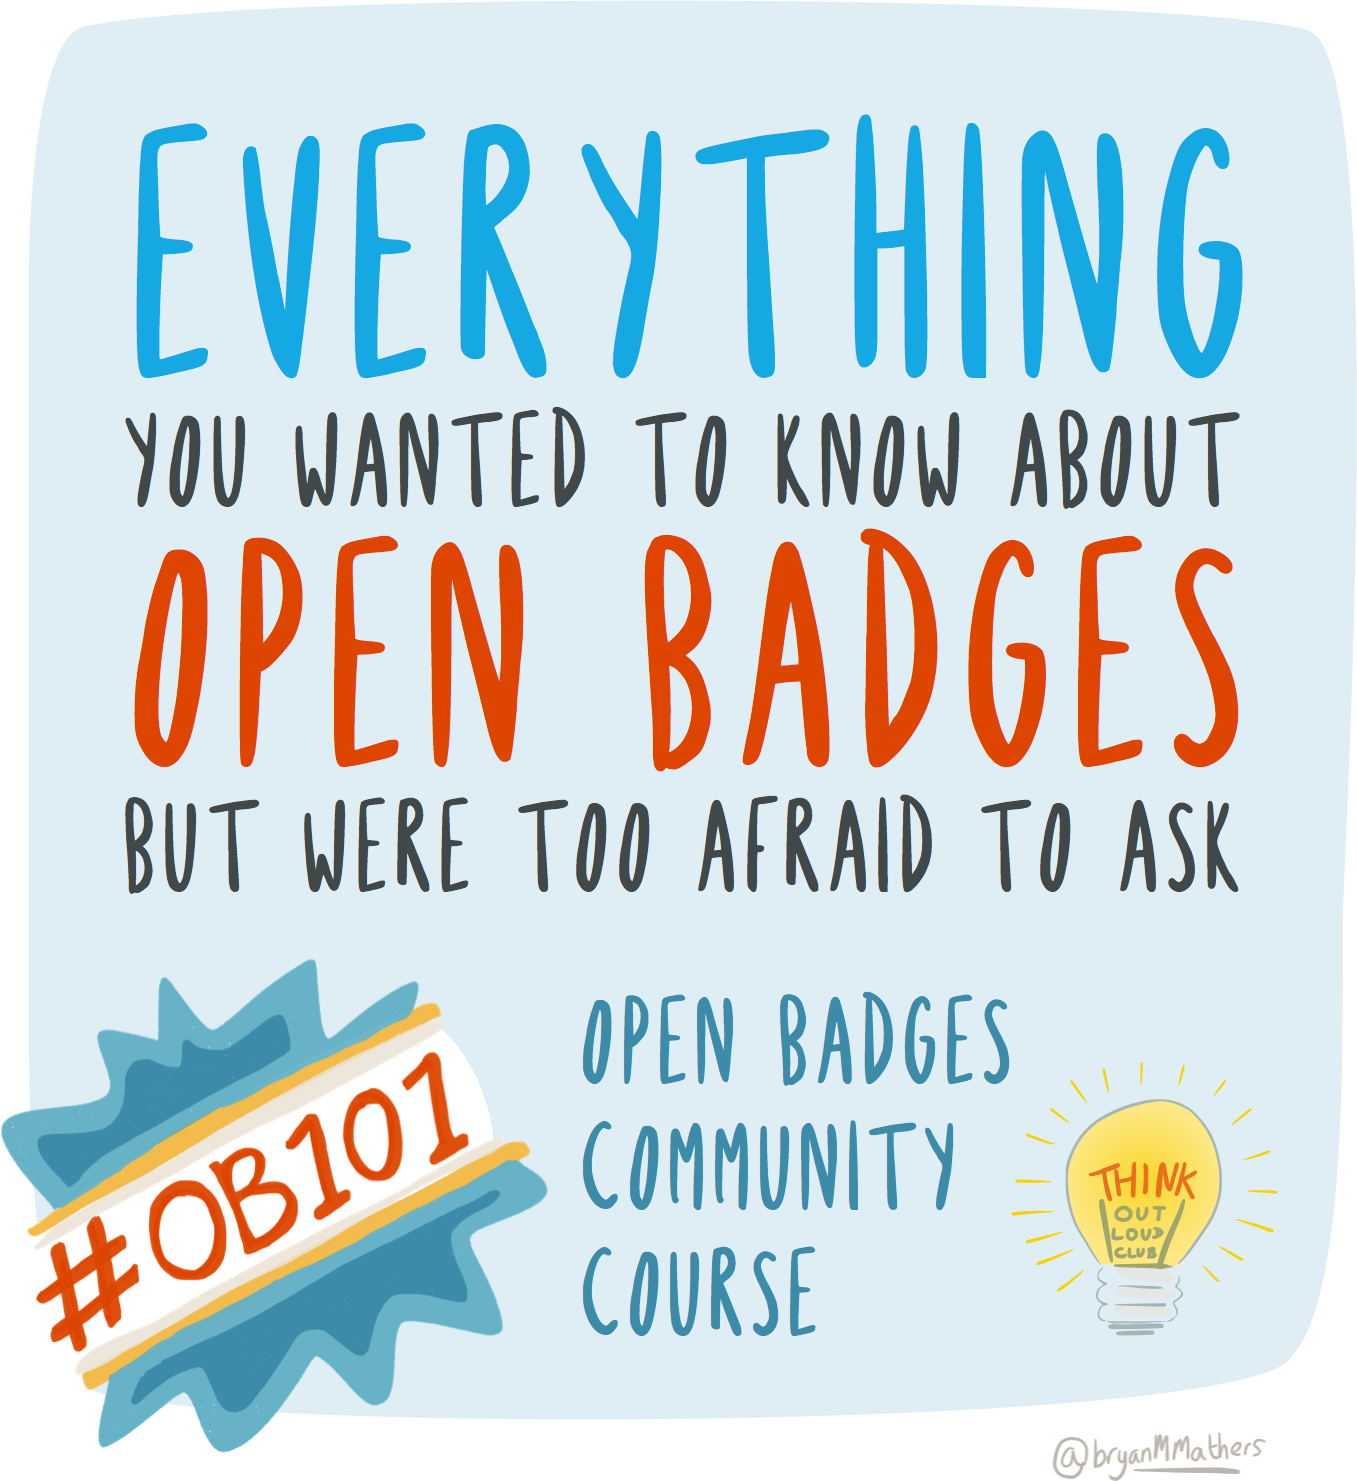
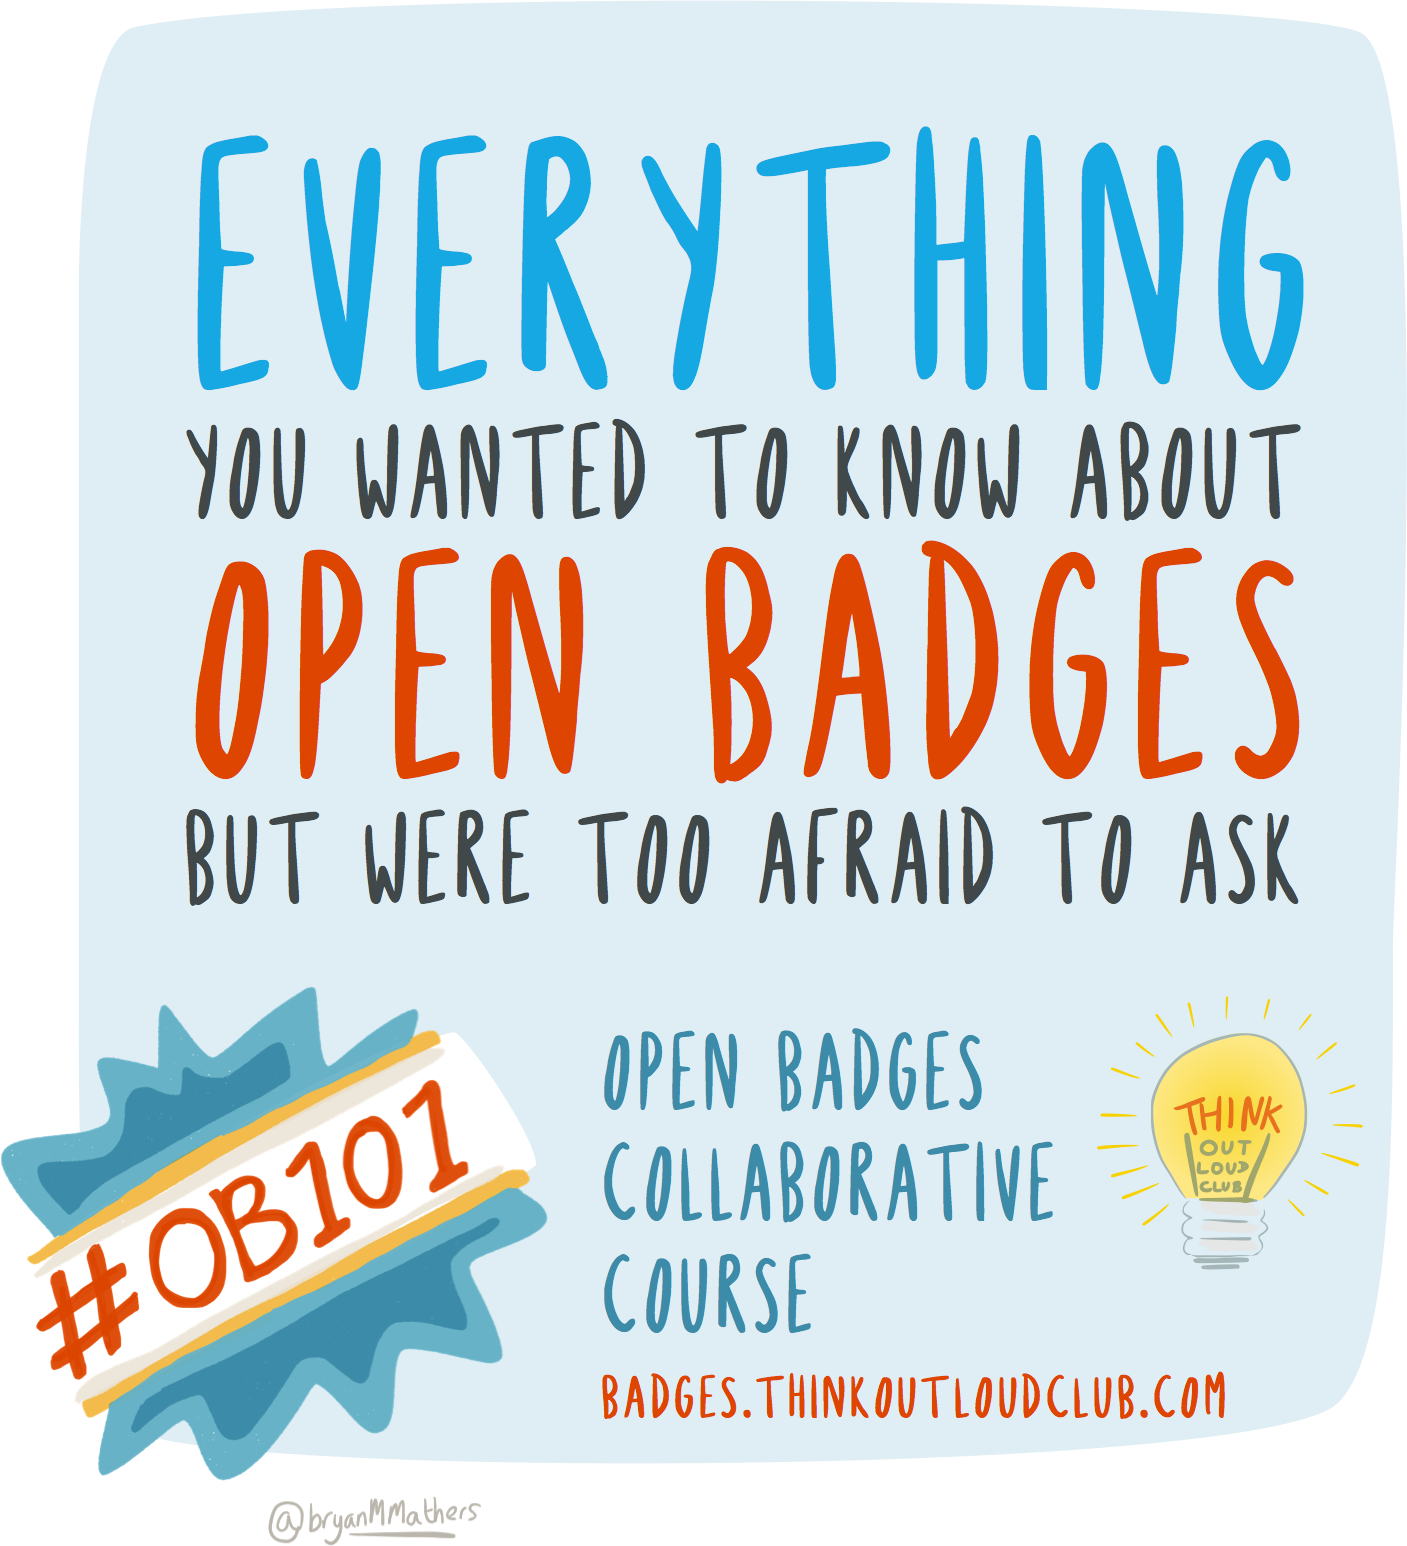
New home page
with a few new images

diff --git a/_layouts/index.html b/_layouts/index.html
@@ -4,27 +4,27 @@ layout: base
 
 <!-- Banner -->
 <div class="jumbotron">
-	<div class="container text-center">
+	<div class="container text-left">
+		<img align=right src="{{ site.baseurl }}/img/visual-thinkery/OB101-cast.png" style="width:50%; margin-left:40px; margin-top: 20px">
 		<header>
-			<h1 style="margin-bottom:15px;">Open Badges 101</h1>
+			<h1 style="margin-bottom:15px;">Welcome to #OB101</h1>
 		</header>
 		<p>
-			<a class="btn btn-primary btn-lg"
-			   href="{{ site.baseurl }}/modules/start/intro/">
-				Keep me updated!</a>
+				In the many conversations that take place inside the <a href="http://thinkoutloudclub.com">Think Out Loud Club</a> it was striking how many spoke about what Open Badges could impact their mission to change the world, but struggled to make sense of the emerging landscape. So we decided to create a course that was collabratively created and community aligned.
 		</p>
 
+		<a class="btn btn-primary btn-lg"
+			   href="{{ site.baseurl }}/modules/start/intro/">Keep me Updated</a>
 
-		<h3>In collaboration with <a href="http://thinkoutloudclub.com">Think Out Loud Club</a>.</h3>
+		
 	</div>
 
 </div>
 <div class="container">
 	<div class="clearfix">
-		<div class="col-md-8 col-md-offset-2">
-			<section>
-				{{ content }}
-			</section>
+		<div class="container text-left">
+		<!--<div class="col-md-8 col-md-offset-2">-->
+		{{ content }}
 		</div>
 	</div>
 </div>

diff --git a/_includes/navigation.html b/_includes/navigation.html
@@ -12,6 +12,9 @@
 	<!-- Collect the nav links, forms, and other content for toggling -->
 	<div class="container">
 		<div class="collapse navbar-collapse" id="p2pu-menu">
+			<ul class="p2pu-logo">
+				<li><a class="p2pu-tab" href="#"><img src="{{ site.baseurl }}/img/OB101-logo.png" alt="{{ site.title }}" /></a></li>
+			</ul>
 			<ul class="nav navbar-nav">
 				<li>
 					<a href="{{ site.baseurl }}/"><i class="fa fa-home"></i></a>
@@ -30,9 +33,7 @@
 					<a href="https://groups.google.com/forum/#!forum/openbadges" target="_blank">Discussion</a>
 				</li> -->
 			</ul>
-			<ul class="p2pu-logo">
-				<li><a class="p2pu-tab" href="#"><img src="img/TOOC.png" alt="{{ site.title }}" /></a></li>
-			</ul>
+			
 		</div>
 		<!-- /.navbar-collapse -->
 	</div>

diff --git a/_includes/footer.html b/_includes/footer.html
@@ -10,8 +10,8 @@
 		</ul>
 
 		<hr>
-		<div class="col-md-4 first">
-			<h4>About</h4>
+		<div class="col-md-4 first"><img align=right src="{{ site.baseurl }}/img/TOOC.png" style="width:30%; margin-left:10px; margin-top: 10px; margin-bottom:10px">
+			<h4>Think Out Loud Club</h4>
 
 			<p>
 				The <a href="http://thinkoutloudclub.com">Think Out Loud Club</a> is an active community of learning technology evangelists who share successes and pain to support each other on the Further Education sector’s journey to becoming more digital. Are you prepared to think out loud?

diff --git a/_sass/p2pu-css-framework/_variables.scss b/_sass/p2pu-css-framework/_variables.scss
@@ -478,7 +478,7 @@ $jumbotron-padding:              30px;
 $jumbotron-color:                inherit;
 $jumbotron-bg:                   $gray-lighter;
 $jumbotron-heading-color:        inherit;
-$jumbotron-font-size:            ceil(($font-size-base * 1.5));
+$jumbotron-font-size:            ceil(($font-size-base * 1.4));
 
 
 //== Form states and alerts

diff --git a/_sass/_landing.scss b/_sass/_landing.scss
@@ -42,7 +42,7 @@ section {
 
 .jumbotron header h1 {
 	font-family: $font-family-sans-serif;
-	font-size: 4em;
+	font-size: 3.5em;
 }
 
 .calendar{

diff --git a/_sass/_nav.scss b/_sass/_nav.scss
@@ -5,7 +5,7 @@
 .p2pu-logo {
 
 	position: absolute;
-	right: 0;
+	right: 100px;
 
 	img {
 		width: 75px;
